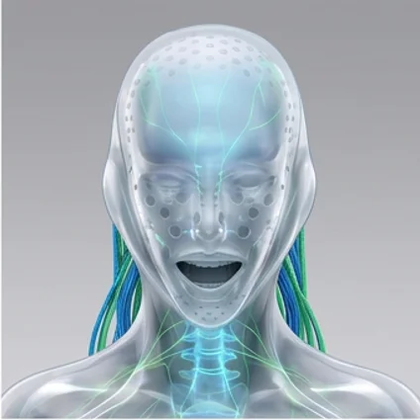
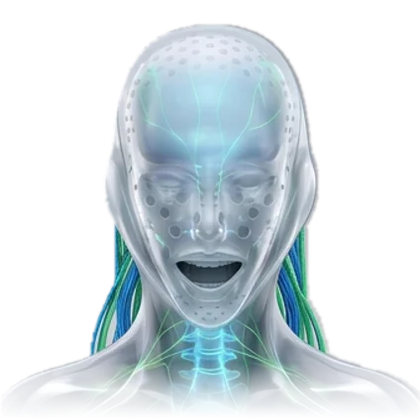
Mascot sprites get a real transparent background instead of a CSS mask
Claude-Session: https://claude.ai/code/session_01TPjjZ9RmpKTEtbNmBrsFuW

diff --git a/src/components/AuroraMascot.vue b/src/components/AuroraMascot.vue
@@ -137,11 +137,9 @@
         transform-origin: 50% 70%;
         will-change: transform;
     }
-    /* no box around the picture: its edges fade into whatever is behind it */
+    /* the pictures have a transparent background, so there is no box to hide */
     .stage.feather {
         border-radius: 0;
-        -webkit-mask-image: radial-gradient(closest-side at 50% 46%, #000 60%, transparent 100%);
-        mask-image: radial-gradient(closest-side at 50% 46%, #000 60%, transparent 100%);
     }
     .aurora-mascot img {
         position: absolute;

diff --git a/src/components/AuroraCompanion.vue b/src/components/AuroraCompanion.vue
@@ -481,7 +481,7 @@
     }
     .soft .nx-frame :deep(img) {
         object-position: 50% 50%;
-        transform: translateY(9%) scale(1.32);
+        transform: translateY(2%) scale(1.04);
         transform-origin: 50% 36%;
     }
 </style>
